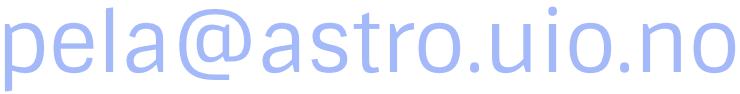
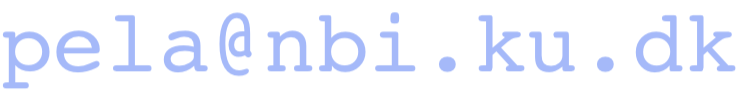
nyt job

Changed region(s): [[0.0, 0.0851, 0.9946, 0.9787], [0.7149, 0.0638, 0.777, 0.1702]]

diff --git a/contact.html b/contact.html
@@ -131,7 +131,7 @@
                                                 <div class="item-head"><i class="icon oi-plus"></i><span><ul class="icon-list icon-border circle"><li><i class="oli oli-email"></i>Email me</li></ul></span></div>
                                                 <div class="item-body">
                                                     <p>
-                                                    <a href="mailto:pela@astro.uio.no?subject=Hi%20there&body=Dear Peter,%0D%0A%0D%0AI saw your lovely website, and I just wanted to say that..."><img border=0 alt='email' src='./pics/email.png' height=16></a>
+                                                    <a href="mailto:pela@nbi.ku.dk?subject=Hi%20there&body=Dear Peter,%0D%0A%0D%0AI saw your lovely website, and I just wanted to say that..."><img border=0 alt='email' src='./pics/email.png' height=16></a>
                                                     </p>
                                                 </div>
                                             </div>
@@ -141,22 +141,12 @@
                                                 <div class="item-head"><i class="icon oi-plus"></i><span><ul class="icon-list icon-border circle"><li><i class="oli oli-envelope"></i>Write me a letter</li></ul></span></div>
                                                 <div class="item-body">
                                                     <p>
-                                                    Institutt for teoretisk astrofysikk<br>
-                                                    Universitetet i Oslo<br>
-                                                    Sem Sælands vei 13<br>
-                                                    0371 Oslo<br>
-                                                    <b>Norway</b>
-                                                    </p>
-                                                    <p>
-                                                    <em>or</em>
-                                                    </p>
-                                                    <p>
                                                     Cosmic Dawn Center<br>
-                                                    Niels Bohr Institutet<br>
-                                                    Københanvs Universitet<br>
-                                                    Vibenshuset, Lyngbyvej 2<br>
-                                                    2100 København ø<br>
-                                                    <b>Denmark</b>
+                                                    Niels Bohr Institute<br>
+                                                    University of Copenhagen<br>
+                                                    Jagtvej 128<br>
+                                                    DK-2200 Copenhagen N<br>
+                                                    Denmark
                                                     </p>
                                                 </div>
                                             </div>
@@ -166,19 +156,15 @@
                                                 <div class="item-head"><i class="icon oi-plus"></i><span><ul class="icon-list icon-border circle"><li><i class="oli oli-map-pin"></i>Come see me</li></ul></span></div>
                                                 <div class="item-body">
                                                     <p>
-                                                    Office in Norway:
-                                                    <a href="./pics/kontorNO.png" class="ol-hover hover-5 ol-lightbox">
-                                                        <img src="./pics/kontorNOicon.png" alt="image hover">
+                                                    <strong>Office 01.2.I.044</strong><br>
+                                                    Enter from Rådmandsgade, go to the 2nd floor, follow the green line:<br>
+                                                    <a href="./pics/kontor.jpg" class="ol-hover hover-5 ol-lightbox">
+                                                        <img src="./pics/kontor_icon.jpg" alt="image hover">
                                                         <div class="ol-overlay ov-light-alpha-80"></div>
                                                         <div class="icons">
                                                             <i class="fa fa-camera"></i>
                                                         </div>
                                                     </a>
-                                                    </p>
-
-                                                    <p>
-                                                    Office in Denmark:<br>
-                                                    2.4.02
                                                     </p>
                                                 </div>
                                             </div>
@@ -188,10 +174,7 @@
                                                 <div class="item-head"><i class="icon oi-plus"></i><span><ul class="icon-list icon-border circle"><li><i class="oli oli-phone"></i>Phone me</li></ul></span></div>
                                                 <div class="item-body">
                                                     <p>
-                                                    Phone number in Norway: ???
-                                                    </p>
-                                                    <p>
-                                                    Phone number in Denmark: +45 93 50 91 90
+                                                    +45 93 50 91 90
                                                     </p>
                                                 </div>
                                             </div>

diff --git a/kontakt.html b/kontakt.html
@@ -143,22 +143,11 @@
                                                 <div class="item-head"><i class="icon oi-plus"></i><span><ul class="icon-list icon-border circle"><li><i class="oli oli-envelope"></i>Skriv mig et brev</li></ul></span></div>
                                                 <div class="item-body">
                                                     <p>
-                                                    Institutt for teoretisk astrofysikk<br>
-                                                    Universitetet i Oslo<br>
-                                                    Sem Sælands vei 13<br>
-                                                    0371 Oslo<br>
-                                                    <b>Norge</b>
-                                                    </p>
-                                                    <p>
-                                                    <em>eller</em>
-                                                    </p>
-                                                    <p>
                                                     Cosmic Dawn Center<br>
                                                     Niels Bohr Institutet<br>
                                                     Københanvs Universitet<br>
-                                                    Vibenshuset, Lyngbyvej 2<br>
-                                                    2100 København ø<br>
-                                                    <b>Danmark</b>
+                                                    Jagtvej 128<br>
+                                                    2200 København N<br>
                                                     </p>
                                                 </div>
                                             </div>
@@ -169,18 +158,15 @@
                                                 <div class="item-head"><i class="icon oi-plus"></i><span><ul class="icon-list icon-border circle"><li><i class="oli oli-map-pin"></i>Kom og sig hej</li></ul></span></div>
                                                 <div class="item-body">
                                                     <p>
-                                                    Kontor i Norge:
-                                                    <a href="./pics/kontorNO.png" class="ol-hover hover-5 ol-lightbox">
-                                                        <img src="./pics/kontorNOicon.png" alt="image hover">
+                                                    <strong>Office 01.2.I.044</strong><br>
+                                                    Kom ind fra Rådmandsgade, gå til 2. sal, følg den grønne linie:<br>
+                                                    <a href="./pics/kontor.jpg" class="ol-hover hover-5 ol-lightbox">
+                                                        <img src="./pics/kontor_icon.jpg" alt="image hover">
                                                         <div class="ol-overlay ov-light-alpha-80"></div>
                                                         <div class="icons">
                                                             <i class="fa fa-camera"></i>
                                                         </div>
                                                     </a>
-                                                    </p>
-                                                    <p>
-                                                    Kontor i Danmark:<br>
-                                                    2.4.02
                                                     </p>
                                                 </div>
                                             </div>
@@ -191,10 +177,7 @@
                                                 <div class="item-head"><i class="icon oi-plus"></i><span><ul class="icon-list icon-border circle"><li><i class="oli oli-phone"></i>Ring til mig</li></ul></span></div>
                                                 <div class="item-body">
                                                     <p>
-                                                    Telefonnummer i Norge: ???
-                                                    </p>
-                                                    <p>
-                                                    Telefonnummer i Danmark: +45 93 50 91 90
+                                                    +45 93 50 91 90
                                                     </p>
                                                 </div>
                                             </div>

diff --git a/dansk.html b/dansk.html
@@ -125,7 +125,7 @@
                                     <div class="col-md-8">
                                         <p>
                                         <span class="ol-dropcaps square bordered light">J</span>eg er en astrofysiker, der er interesseret i galakser og resten af Universet.
-                                        Mit arbejde er mest numerisk/teoretisk (i modsætning til observationelt/eksperimentelt).
+                                        Min forskning er mest numerisk/teoretisk (i modsætning til observationelt/eksperimentelt).
                                         Dvs. jeg udvikler computerprogrammer der simulerer Universets fysik, og bruger disse programmer til at fortolke og forudsige rigtige observationer.
                                         </p>
                                         <p>
@@ -134,6 +134,14 @@
                                         </p>
                                         <p>
                                         Du kan læse mere om min forskning <a class='btn btn-round btn-extra-small' href="./forskning.html">her</a>
+                                        </p>
+                                        <p>
+                                        Forskning er dog kun en (alt for) lille del af mit arbejde;
+                                        jeg formidler også vores videnskab til offentligheden,
+                                        arrangerer konferencer for astronomer,
+                                        vedligeholder vores hjemmeside,
+                                        <!-- administrerer supercomputing, -->
+                                        mm.
                                         </p>
                                         <p> <div class="sp-blank-10 shadow-line"></div> </p>
                                         <!-- begin shortcuts -->
@@ -175,15 +183,9 @@
                                             <hr style="border-top: 1px solid #7F548E; background: transparent;">
                                             <p>
                                             <span style="color:#7F548E">
-                                                Postdoctoral fellow ved<br>
-                                                <a href="https://www.mn.uio.no/astro/english/">Institutt for teoretisk astrofysikk</a>,<br>
-                                                Universitetet i Oslo.
-                                            </span>
-                                            </p>
-                                            <p>
-                                            <span style="color:#7F548E">
-                                                Affilieret med<br>
+                                                Senior scientific and communication coordinator ved<br>
                                                 <a href="https://dawn.nbi.ku.dk">Cosmic Dawn Center</a>,<br>
+                                                Niels Bohr Institutet,<br>
                                                 Københavns Universitet.
                                             </span>
                                             </p>
@@ -226,7 +228,7 @@
                                         <center><h3 class="features-title">Seneste videnskabelige artikel</h3></center>
                                         </p>
                                         <p>
-                                        <a href="https://ui.adsabs.harvard.edu/abs/2019A%26A...627A..84L" class="featured-item boxed">
+                                        <a href="https://ui.adsabs.harvard.edu/abs/2020MNRAS.493.3194P" class="featured-item boxed">
                                             <div class="features-image ov-light-alpha-50">
                                                 <img src="./pics/news_paper.jpg" alt="image">
                                             </div>

diff --git a/index.html b/index.html
@@ -127,7 +127,7 @@
                                     <div class="col-md-8">
                                         <p>
                                         <span class="ol-dropcaps square bordered light">I</span> am an astrophysicist interested in galaxies and the rest of the Universe.
-                                        My work is mainly numerical/theoretical (as opposed to observational/experimental).
+                                        My research is mainly numerical/theoretical (as opposed to observational/experimental).
                                         That is, I develop computer programs that simulate the physics of the Universe, and use these programs to interpret and predict real observations.
                                         </p>
                                         <p>
@@ -136,6 +136,14 @@
                                         </p>
                                         <p>
                                         You can read more about my research <a class='btn btn-round btn-extra-small' href="./research.html">here</a>
+                                        </p>
+                                        <p>
+                                        Research is only (a too small) part of my job, however; I also
+                                        communicate our science to the public,
+                                        arrange workshops for astronomers,
+                                        maintain our website,
+                                        <!-- administer high performance computing, -->
+                                        etc.
                                         </p>
                                         <p>
                                         All pages on this site are available in Danish by clicking the flag in the top.
@@ -180,15 +188,9 @@
                                             <hr style="border-top: 1px solid #7F548E; background: transparent;">
                                             <p>
                                             <span style="color:#7F548E">
-                                                Postdoctoral fellow at the<br>
-                                                <a href="https://www.mn.uio.no/astro/english/">Institute of Theoretical Astrophysics</a>,<br>
-                                                University of Oslo.
-                                            </span>
-                                            </p>
-                                            <p>
-                                            <span style="color:#7F548E">
-                                                Affiliated with the<br>
+                                                Senior scientific and communication coordinator at the<br>
                                                 <a href="https://dawn.nbi.ku.dk">Cosmic Dawn Center</a>,<br>
+                                                Niels Bohr Institute,<br>
                                                 University of Copenhagen.
                                             </span>
                                             </p>
@@ -231,7 +233,7 @@
                                         <center><h3 class="features-title">Latest scientific paper</h3></center>
                                         </p>
                                         <p>
-                                        <a href="https://ui.adsabs.harvard.edu/abs/2019A%26A...627A..84L" class="featured-item boxed">
+                                        <a href="https://ui.adsabs.harvard.edu/abs/2020MNRAS.493.3194P" class="featured-item boxed">
                                             <div class="features-image ov-light-alpha-50">
                                                 <img src="./pics/news_paper.jpg" alt="image">
                                             </div>

diff --git a/cv.html b/cv.html
@@ -196,7 +196,11 @@
                                                     <p>
                                                     <table border=0 cellspacing=5>
                                                         <tr>
-                                                            <td valign=top width=110>2016 - present:&emsp;</td>
+                                                            <td valign=top width=110>2020 - present:&emsp;</td>
+                                                            <td valign=top>Senior scientific and communication coordinator at the <a href="https://dawn.nbi.ku.dk">Cosmic Dawn Center</a>, Copenhagen.</td>
+                                                        </tr>
+                                                        <tr>
+                                                            <td valign=top width=110>2016 - 2020:&emsp;</td>
                                                             <td valign=top>Postdoc at <a href="http://www.mn.uio.no/astro/">Institutt for teoretisk astrofysikk</a>, Oslo.</td>
                                                         </tr>
                                                         <tr>
@@ -431,6 +435,7 @@
                                                         </li>
                                                         <li><strong>Organizational work &amp; memberships</strong>
                                                             <ul>
+                                                                <li>2020: Organizer of the <a href="./dawn/summit2020.html">DAWN Summit 2020</a>.</li>
                                                                 <li>2019 - : Junior member of the International Astronomical Union (<a href="https://www.iau.org/administration/membership/individual/18252/">profile</a>)</li>
                                                                 <li>2012 - 2015: In charge of organizing a daily, half-hour paper discussion session at DARK</li>
                                                                 <li>2014: Member of Scientific Organizing Committees at the European Week of Astronomy and Space Science (EWASS) conference</li>

diff --git a/cv_dk.html b/cv_dk.html
@@ -196,6 +196,10 @@
                                                     <p>
                                                     <table border=0 cellspacing=5>
                                                         <tr>
+                                                            <td valign=top width=110>2020 - present:&emsp;</td>
+                                                            <td valign=top>Senior scientific and communication coordinator ved <a href="https://dawn.nbi.ku.dk">Cosmic Dawn Center</a>, København.</td>
+                                                        </tr>
+                                                        <tr>
                                                             <td valign=top width=110>2016 - nu:&emsp;</td>
                                                             <td valign=top>Postdoc ved <a href="http://www.mn.uio.no/astro/">Institutt for teoretisk astrofysikk</a>, Oslo.</td>
                                                         </tr>
@@ -432,6 +436,7 @@
                                                         </li>
                                                         <li><strong>Organisatorisk arbejde &amp; medlemsskaber</strong>
                                                             <ul>
+                                                                <li>2020: Arrangør af <a href="./dawn/summit2020.html">DAWN Summit 2020</a>.</li>
                                                                 <li>2019 - : Juniormedlem af International Astronomical Union (<a href="https://www.iau.org/administration/membership/individual/18252/">profil</a>)</li>
                                                                 <li>2012 - 2015: Ansvarlig for at organisere en daglig, halv-times artikel-diskussion på DARK</li>
                                                                 <li>2014: Medlem af den videnskabeligt organiserende komité (SOC) ved European Week of Astronomy and Space Science (EWASS) konference</li>
